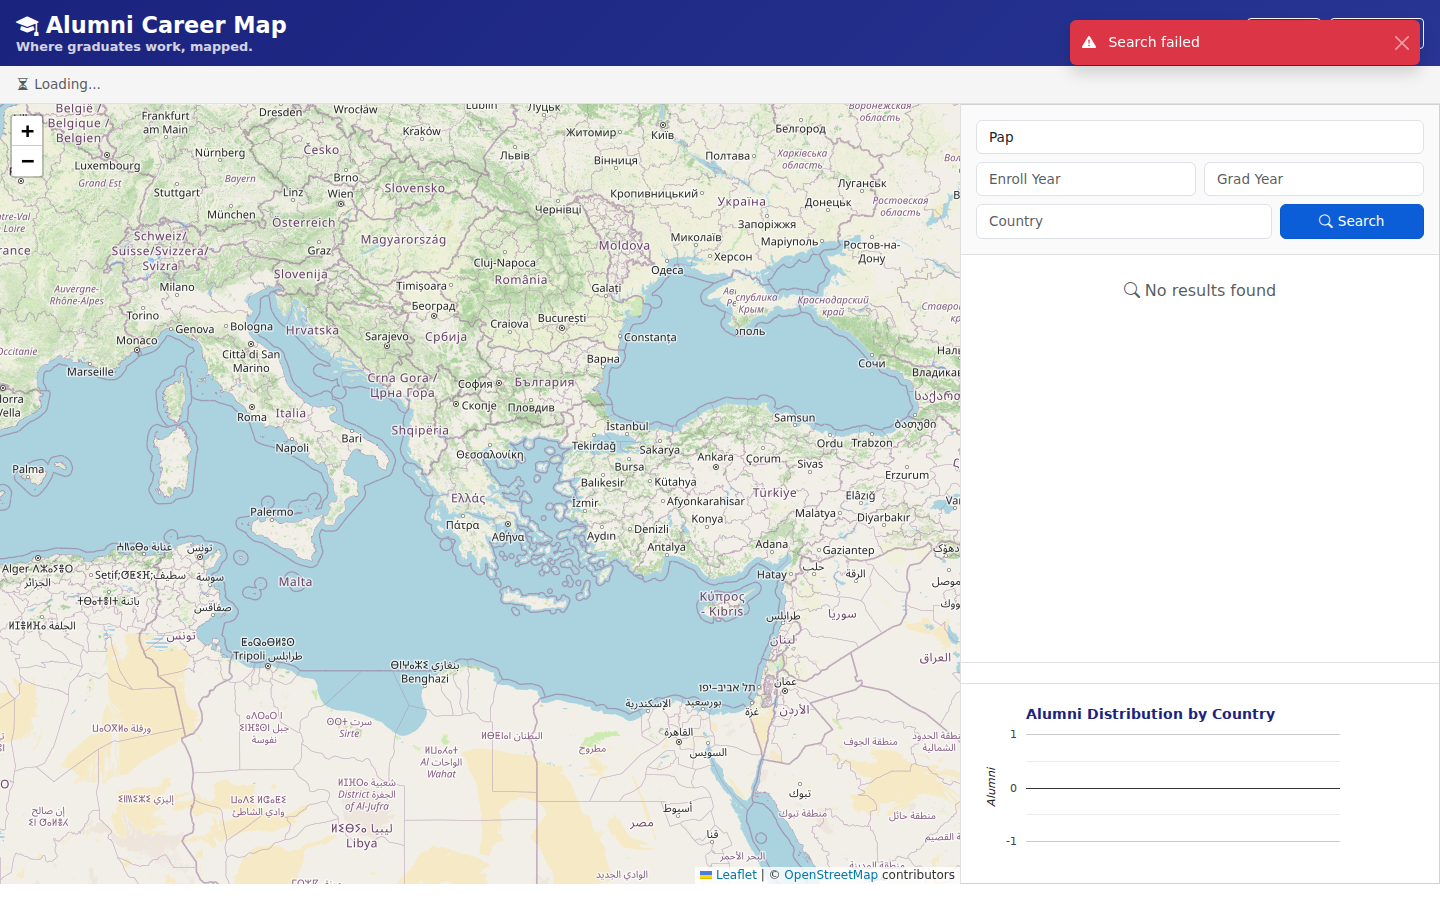
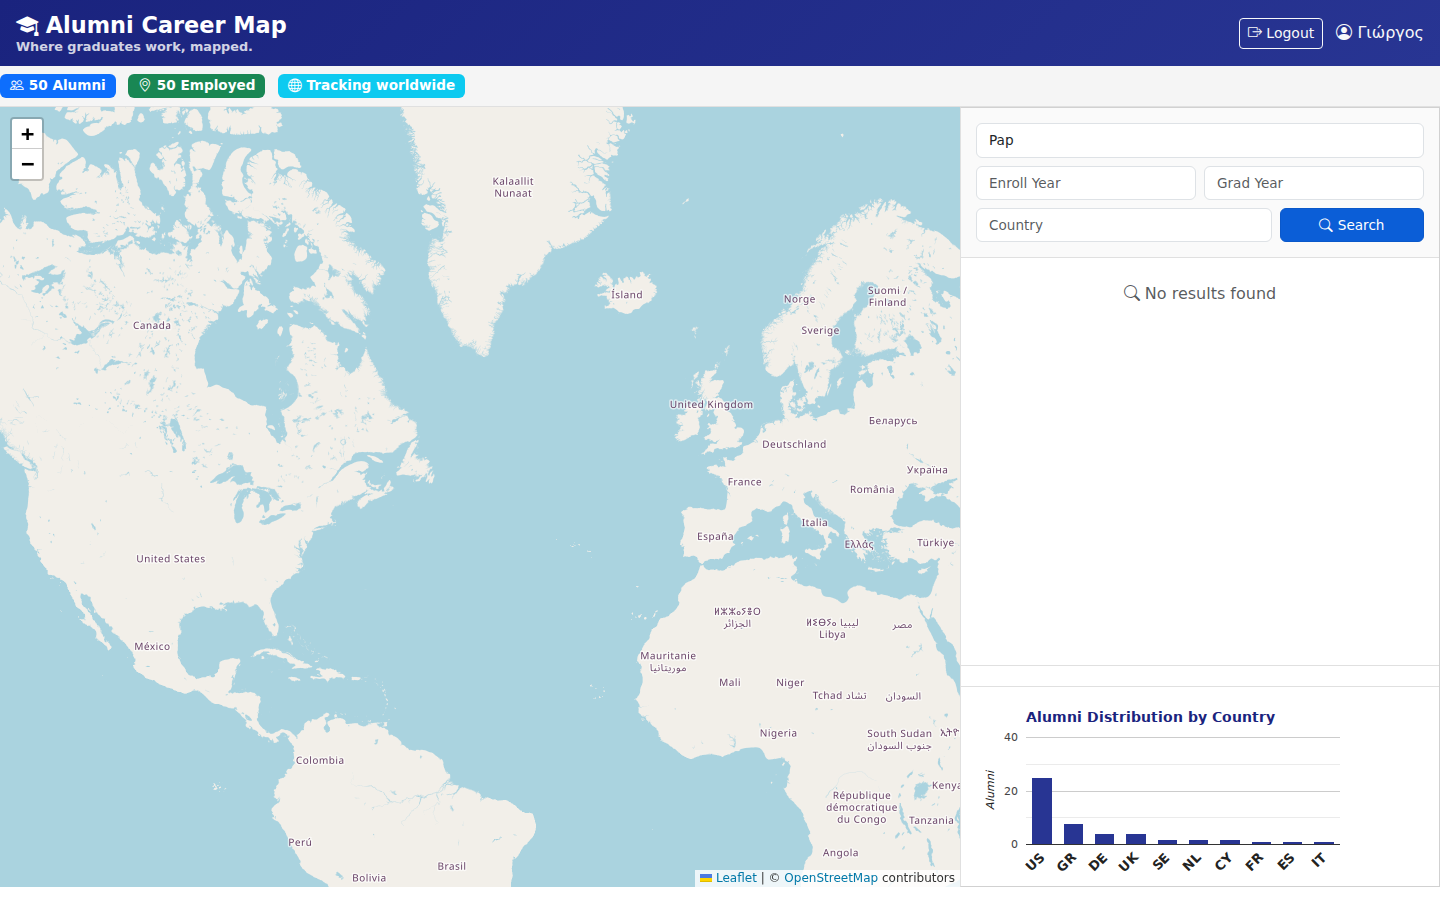
chore: add GitHub templates, security policy, update UX, and refresh demo screenshots

diff --git a/frontend/js/app.js b/frontend/js/app.js
@@ -307,7 +307,10 @@ async function performSearch() {
         // Chart remains static - always shows ALL alumni distribution
         // (the chart is a summary of all graduates, not filtered)
     } else {
-        showToast('Search failed', 'danger');
+        // Gracefully handle search failure / empty results without popping up an error toast
+        renderAlumniList([]);
+        renderPagination(null);
+        placeAlumniMarkers([], (alumnus) => openJobsModal(alumnus));
     }
 }
 

diff --git a/README.md b/README.md
@@ -5,7 +5,17 @@
 > Built as an individual project during my MSc studies.
 > All seed data is synthetic 👤 fake names, `@example.com` emails, fictional companies — safe to browse and demo.
 
-![Static Badge](https://img.shields.io/badge/Stack-PHP%20(Slim%204)-blue) ![Static Badge](https://img.shields.io/badge/Frontend-vanilla%20JS%20%2B%20Bootstrap%205-orange) ![Static Badge](https://img.shields.io/badge/DB-MySQL-brightgreen) ![Static Badge](https://img.shields.io/badge/Auth-JWT%20%2F%20ownership-orange) ![Static Badge](https://img.shields.io/badge/Docker-yes-green) ![Static Badge](https://img.shields.io/badge/Scope-small%20project-lightgrey)
+# Badges
+
+![PHP](https://img.shields.io/badge/PHP-8.2-blue) ![Slim 4](https://img.shields.io/badge/Slim%204-blue) ![Bootstrap 5](https://img.shields.io/badge/Bootstrap%205-orange) ![MySQL](https://img.shields.io/badge/MySQL-8-brightgreen) ![JWT Auth](https://img.shields.io/badge/Auth-JWT-orange) ![Docker](https://img.shields.io/badge/Docker-yes-green) ![License](https://img.shields.io/badge/License-MIT-brightgreen)
+
+[![Live Demo](https://img.shields.io/badge/Live_Demo-Click_to_View-blue)](http://localhost:8081)
+[![Demo Video](https://img.shields.io/badge/Demo_Video-Watch_Video-red)](https://www.youtube.com/watch?v=YOUR_DEMO_VIDEO_ID)
+
+![GitHub Actions](https://github.com/Alex247Git/alumni-career-map/workflows/Tests/badge.svg)
+![PHP CS Fixer](https://github.com/Alex247Git/alumni-career-map/workflows/PHP-CS/badge.svg)
+![PHPStan](https://github.com/Alex247Git/alumni-career-map/workflows/PHPStan/badge.svg)
+![PHPUnit](https://github.com/Alex247Git/alumni-career-map/workflows/PHPUnit/badge.svg)
 
 ---
 

diff --git a/.github/pull_request_template.md b/.github/pull_request_template.md
@@ -1,0 +1,23 @@
+## Description
+Please include a summary of the change and which issue is fixed. Please also include relevant motivation and context.
+
+## Type of change
+- [ ] Bug fix (non-breaking change which fixes an issue)
+- [ ] New feature (non-breaking change which adds functionality)
+- [ ] Breaking change (fix or update that would cause existing functionality to not work as expected)
+- [ ] Documentation update
+
+## How Has This Been Tested?
+Please describe the tests that you ran to verify your changes. Provide instructions so we can reproduce.
+
+- [ ] Unit tests (`vendor/bin/phpunit`)
+- [ ] Static analysis (`vendor/bin/phpstan`)
+- [ ] Coding standards (`vendor/bin/phpcs`)
+- [ ] Manual smoke test via Docker (`docker compose up -d --build`)
+
+## Checklist:
+- [ ] My code follows the style guidelines of this project
+- [ ] I have performed a self-review of my own code
+- [ ] I have commented my code, particularly in hard-to-reach areas
+- [ ] I have made corresponding changes to the documentation
+- [ ] My changes generate no new warnings

diff --git a/.github/ISSUE_TEMPLATE/bug_report.md b/.github/ISSUE_TEMPLATE/bug_report.md
@@ -1,0 +1,32 @@
+---
+name: Bug Report
+about: Create a report to help us improve
+title: '[BUG] '
+labels: 'bug'
+assignees: ''
+
+---
+
+**Describe the bug**
+A clear and concise description of what the bug is.
+
+**To Reproduce**
+Steps to reproduce the behavior:
+1. Run `docker compose up -d --build`
+2. Go to '...'
+3. Click on '....'
+4. See error
+
+**Expected behavior**
+A clear and concise description of what you expected to happen.
+
+**Screenshots**
+If applicable, add screenshots to help explain your problem.
+
+**Desktop (please complete the following information):**
+- OS: [e.g. Ubuntu, macOS, Windows]
+- Browser [e.g. chrome, safari]
+- Version [e.g. 22]
+
+**Additional context**
+Add any other context about the problem here.

diff --git a/.github/ISSUE_TEMPLATE/feature_request.md b/.github/ISSUE_TEMPLATE/feature_request.md
@@ -1,0 +1,20 @@
+---
+name: Feature Request
+about: Suggest an idea for this project
+title: '[FEATURE] '
+labels: 'enhancement'
+assignees: ''
+
+---
+
+**Is your problem related to a problem? Please describe.**
+A clear and concise description of what the problem is. Ex. I'm always frustrated when [...]
+
+**Describe the solution you'd like**
+A clear and concise description of what you want to happen.
+
+**Describe alternatives you've considered**
+A clear and concise description of any alternative solutions or features you've considered.
+
+**Additional context**
+Add any other context or screenshots about the feature request here.

diff --git a/SECURITY.md b/SECURITY.md
@@ -1,0 +1,11 @@
+# Security Policy
+
+## Supported Versions
+
+| Version | Supported          |
+| ------- | ------------------ |
+| 1.x     | :white_check_mark: |
+
+## Reporting a Vulnerability
+
+If you discover a security vulnerability within Alumni Career Map, please send an email directly to the repository owner rather than opening a public issue. All security vulnerabilities will be promptly addressed.
